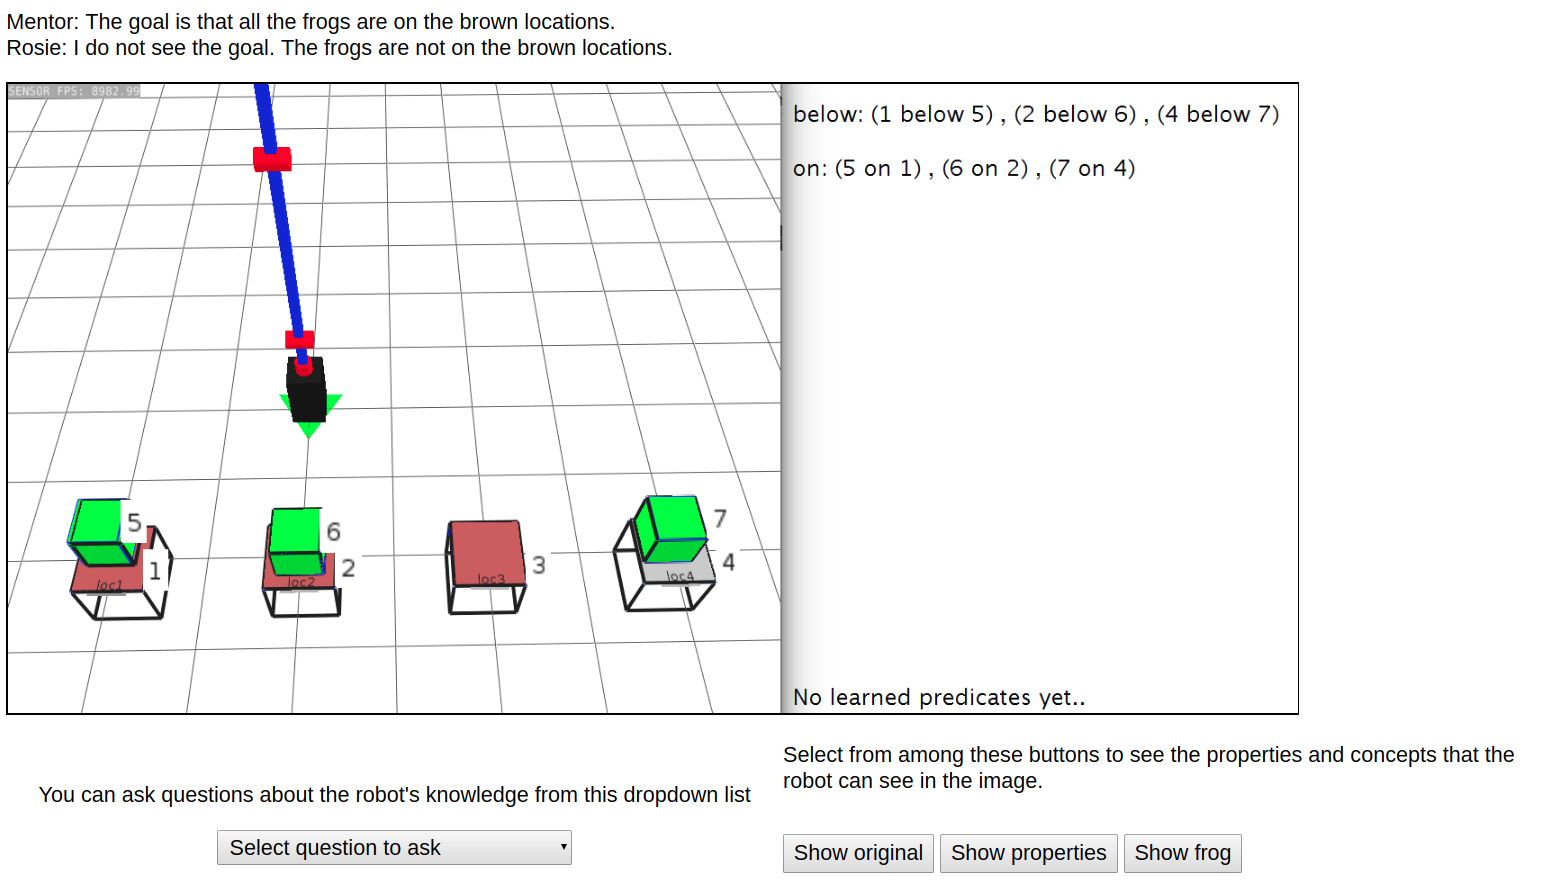
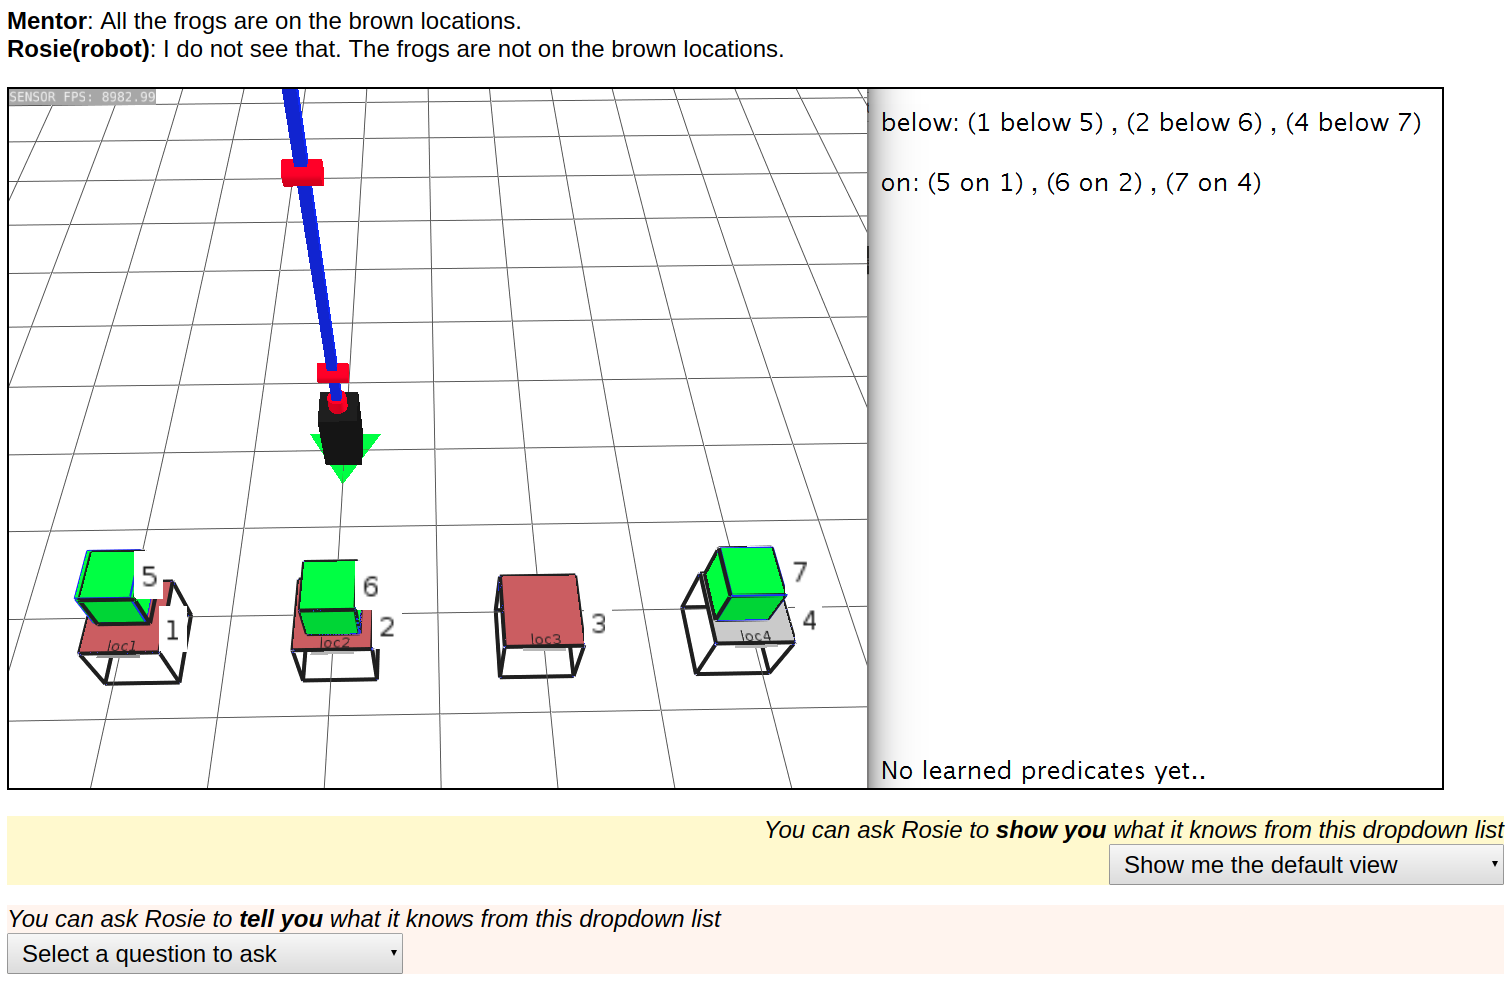
UI related changes and turned show view to dropdown list

Changed region(s): [[0.0, 0.0, 0.9947, 1.0], [0.4974, 0.9436, 0.8082, 1.0], [0.1243, 0.7001, 0.1554, 0.761]]

diff --git a/tutorial-group1.html b/tutorial-group1.html
@@ -10,41 +10,46 @@
 </head>
 <form id="mturk_form"/>
 <body onload="start()">
-        <div style="border: 3px solid green;"><p id="instruction" align="center">Welcome to the Debugging Rosie's Failure study! Press "Next" to continue.</p>
+        <div style="border: 3px solid green;"><p id="instruction" align="center">Welcome! Press "Next" to begin the tutorial.</p>
         <div align="center"><button id="next" type="button" onclick="nextt()" style=" font-size: 24px;padding: 5px 10px;">Next</button></div>
         </div>
         <div align="left"><p><span id="minutes"></span>:<span id="seconds"></span></p></div>      
         <div>
-            <p id="conv_set"><b>Mentor</b>: The goal is that all the frogs are on the brown locations. <br/> <b>Rosie</b>: I do not see the goal. The frogs are not on the brown locations.</p>
+            <p id="conv_set"><b>Mentor</b>: All the frogs are on the brown locations. <br/> <b>Rosie(robot)</b>: I do not see that. The frogs are not on the brown locations.</p>
         </div>
         <div id="example-img-set">
             <!-- Where each set represents the condition-->
             <img id="img_trial" src="new_images/tutorial_viz.png" style="border: 2px solid black">
         </div>
         <div id="all-buttons">
+                <div id="visual-area">
+                    <span><i>You can ask Rosie to <b>show you</b> what it knows from this dropdown list</i></span><br/>
+                        <select id="visual-options" onchange="change_image(this.value)">
+                                <option value="original">Show me the default view</option>
+                                <option value="properties" >Show me the object properties</option>
+                                <option value="frog">Show me which objects are frogs</option>
+                        </select>
+                       <!-- <div id="visual-buttons">
+                                <button type="button" class="btn" id="original" onclick="change_image(this.id)">Hide all</button>
+                                <button type="button" class="btn" id="properties" onclick="change_image(this.id)">Object properties</button>
+                                <button type="button" class="btn" id="frog" onclick="change_image(this.id)">Frog objects</button>
+                        </div> -->
+                </div>
             <div id="dropdown">
-                <span><i>You can ask Rosie questions about its knowledge from this dropdown list</i></span><br/>
+                <span><i>You can ask Rosie to <b>tell you</b> what it knows from this dropdown list</i></span><br/>
                 <select id="question-answer" onChange="printAnswer(this);"></select>
                 <p id="answer"></p>
-            </div>
-            <div id="visual-area">
-                <span><i>Click buttons below to ask Rosie to show what it knows</i></span>
-                    <div id="visual-buttons">
-                            <button type="button" class="btn" id="original" onclick="change_image(this.id)">Hide all</button>
-                            <button type="button" class="btn" id="properties" onclick="change_image(this.id)">Object properties</button>
-                            <button type="button" class="btn" id="frog" onclick="change_image(this.id)">Frog objects</button>
-                    </div>
             </div>
         </div>
         <div id="user-input-options">
                 <div id="user-text-input">
-                    <span align="center"><i>Why do you think Rosie cannot see the goal/failure state or do the action?</i></span><br/>
-                    <span align-"center"><small>(Feel free to specify additional questions or show mechanisms that could have helped you)</small></span><br/>
+                    <span align="center"><i>Why do you think Rosie cannot see this/ do the action?</i></span><br/>
+                    <span align-"center"><small>(Feel free to specify additional information that could have helped you)</small></span><br/>
                     <textarea rows="4" cols="50" name="reason" id="reason" on="enableAnswer()">Hint: Are all frogs on the brown location? Which one isn't? Write here.</textarea>
                 </div>
-                <button type="button" id="showOptionsBtn" onclick="readyToAnswer()" class="btn">Ready to answer</button>
+                <button type="button" id="showOptionsBtn" onclick="readyToAnswer()" class="btn">Continue</button>
                 <div id="user-input">
-                    <p>In the study, you may or may not have the question dropdown, show buttons or the display panel available to you based on the example. Select the answer</p>
+                    <p>In the study, you may or may not have the question dropdown, show dropdown or the right panel available to you based on the example. Select the answer</p>
                     <select id="user-answer">
                         <option value="1">The green blocks are on the brown locations but the robot cannot detect it.</option>
                         <option value="2">The green block 7 is not on location 3.</option>

diff --git a/tutorial-group2.html b/tutorial-group2.html
@@ -10,41 +10,46 @@
 </head>
 <form id="mturk_form"/>
 <body onload="start()">
-        <div style="border: 3px solid green;"><p id="instruction" align="center">Welcome to the Debugging Rosie's Failure study! Press "Next" to continue.</p>
+        <div style="border: 3px solid green;"><p id="instruction" align="center">Welcome! Press "Next" to begin the tutorial.</p>
         <div align="center"><button id="next" type="button" onclick="nextt()" style=" font-size: 24px;padding: 5px 10px;">Next</button></div>
         </div>
         <div align="left"><p><span id="minutes"></span>:<span id="seconds"></span></p></div>      
         <div>
-            <p id="conv_set"><b>Mentor</b>: The goal is that all the frogs are on the brown locations. <br/> <b>Rosie</b>: I do not see the goal. The frogs are not on the brown locations.</p>
+            <p id="conv_set"><b>Mentor</b>: All the frogs are on the brown locations. <br/> <b>Rosie(robot)</b>: I do not see that. The frogs are not on the brown locations.</p>
         </div>
         <div id="example-img-set">
             <!-- Where each set represents the condition-->
             <img id="img_trial" src="new_images/tutorial_viz.png" style="border: 2px solid black">
         </div>
         <div id="all-buttons">
+                <div id="visual-area">
+                    <span><i>You can ask Rosie to <b>show you</b> what it knows from this dropdown list</i></span><br/>
+                        <select id="visual-options" onchange="change_image(this.value)">
+                                <option value="original">Show me the default view</option>
+                                <option value="properties" >Show me the object properties</option>
+                                <option value="frog">Show me which objects are frogs</option>
+                        </select>
+                       <!-- <div id="visual-buttons">
+                                <button type="button" class="btn" id="original" onclick="change_image(this.id)">Hide all</button>
+                                <button type="button" class="btn" id="properties" onclick="change_image(this.id)">Object properties</button>
+                                <button type="button" class="btn" id="frog" onclick="change_image(this.id)">Frog objects</button>
+                        </div> -->
+                </div>
             <div id="dropdown">
-                <span><i>You can ask Rosie questions about its knowledge from this dropdown list</i></span><br/>
+                <span><i>You can ask Rosie to <b>tell you</b> what it knows from this dropdown list</i></span><br/>
                 <select id="question-answer" onChange="printAnswer(this);"></select>
                 <p id="answer"></p>
-            </div>
-            <div id="visual-area">
-                <span><i>Click buttons below to ask Rosie to show what it knows</i></span>
-                    <div id="visual-buttons">
-                            <button type="button" class="btn" id="original" onclick="change_image(this.id)">Hide all</button>
-                            <button type="button" class="btn" id="properties" onclick="change_image(this.id)">Object properties</button>
-                            <button type="button" class="btn" id="frog" onclick="change_image(this.id)">Frog objects</button>
-                    </div>
             </div>
         </div>
         <div id="user-input-options">
                 <div id="user-text-input">
-                    <span align="center"><i>Why do you think Rosie cannot see the goal/failure state or do the action?</i></span><br/>
-                    <span align-"center"><small>(Feel free to specify additional questions or show mechanisms that could have helped you)</small></span><br/>
+                    <span align="center"><i>Why do you think Rosie cannot see this/ do the action?</i></span><br/>
+                    <span align-"center"><small>(Feel free to specify additional information that could have helped you)</small></span><br/>
                     <textarea rows="4" cols="50" name="reason" id="reason" on="enableAnswer()">Hint: Are all frogs on the brown location? Which one isn't? Write here.</textarea>
                 </div>
-                <button type="button" id="showOptionsBtn" onclick="readyToAnswer()" class="btn">Ready to answer</button>
+                <button type="button" id="showOptionsBtn" onclick="readyToAnswer()" class="btn">Continue</button>
                 <div id="user-input">
-                    <p>In the study, you may or may not have the question dropdown, show buttons or the display panel available to you based on the example. Select the answer</p>
+                    <p>In the study, you may or may not have the question dropdown, show dropdown or the right panel available to you based on the example. Select the answer</p>
                     <select id="user-answer">
                         <option value="1">The green blocks are on the brown locations but the robot cannot detect it.</option>
                         <option value="2">The green block 7 is not on location 3.</option>

diff --git a/tutorial-group3.html b/tutorial-group3.html
@@ -10,41 +10,46 @@
 </head>
 <form id="mturk_form"/>
 <body onload="start()">
-        <div style="border: 3px solid green;"><p id="instruction" align="center">Welcome to the Debugging Rosie's Failure study! Press "Next" to continue.</p>
+        <div style="border: 3px solid green;"><p id="instruction" align="center">Welcome! Press "Next" to begin the tutorial.</p>
         <div align="center"><button id="next" type="button" onclick="nextt()" style=" font-size: 24px;padding: 5px 10px;">Next</button></div>
         </div>
         <div align="left"><p><span id="minutes"></span>:<span id="seconds"></span></p></div>      
         <div>
-            <p id="conv_set"><b>Mentor</b>: The goal is that all the frogs are on the brown locations. <br/> <b>Rosie</b>: I do not see the goal. The frogs are not on the brown locations.</p>
+            <p id="conv_set"><b>Mentor</b>: All the frogs are on the brown locations. <br/> <b>Rosie(robot)</b>: I do not see that. The frogs are not on the brown locations.</p>
         </div>
         <div id="example-img-set">
             <!-- Where each set represents the condition-->
             <img id="img_trial" src="new_images/tutorial_viz.png" style="border: 2px solid black">
         </div>
         <div id="all-buttons">
+                <div id="visual-area">
+                    <span><i>You can ask Rosie to <b>show you</b> what it knows from this dropdown list</i></span><br/>
+                        <select id="visual-options" onchange="change_image(this.value)">
+                                <option value="original">Show me the default view</option>
+                                <option value="properties" >Show me the object properties</option>
+                                <option value="frog">Show me which objects are frogs</option>
+                        </select>
+                       <!-- <div id="visual-buttons">
+                                <button type="button" class="btn" id="original" onclick="change_image(this.id)">Hide all</button>
+                                <button type="button" class="btn" id="properties" onclick="change_image(this.id)">Object properties</button>
+                                <button type="button" class="btn" id="frog" onclick="change_image(this.id)">Frog objects</button>
+                        </div> -->
+                </div>
             <div id="dropdown">
-                <span><i>You can ask Rosie questions about its knowledge from this dropdown list</i></span><br/>
+                <span><i>You can ask Rosie to <b>tell you</b> what it knows from this dropdown list</i></span><br/>
                 <select id="question-answer" onChange="printAnswer(this);"></select>
                 <p id="answer"></p>
-            </div>
-            <div id="visual-area">
-                <span><i>Click buttons below to ask Rosie to show what it knows</i></span>
-                    <div id="visual-buttons">
-                            <button type="button" class="btn" id="original" onclick="change_image(this.id)">Hide all</button>
-                            <button type="button" class="btn" id="properties" onclick="change_image(this.id)">Object properties</button>
-                            <button type="button" class="btn" id="frog" onclick="change_image(this.id)">Frog objects</button>
-                    </div>
             </div>
         </div>
         <div id="user-input-options">
                 <div id="user-text-input">
-                    <span align="center"><i>Why do you think Rosie cannot see the goal/failure state or do the action?</i></span><br/>
-                    <span align-"center"><small>(Feel free to specify additional questions or show mechanisms that could have helped you)</small></span><br/>
+                    <span align="center"><i>Why do you think Rosie cannot see this/ do the action?</i></span><br/>
+                    <span align-"center"><small>(Feel free to specify additional information that could have helped you)</small></span><br/>
                     <textarea rows="4" cols="50" name="reason" id="reason" on="enableAnswer()">Hint: Are all frogs on the brown location? Which one isn't? Write here.</textarea>
                 </div>
-                <button type="button" id="showOptionsBtn" onclick="readyToAnswer()" class="btn">Ready to answer</button>
+                <button type="button" id="showOptionsBtn" onclick="readyToAnswer()" class="btn">Continue</button>
                 <div id="user-input">
-                    <p>In the study, you may or may not have the question dropdown, show buttons or the display panel available to you based on the example. Select the answer</p>
+                    <p>In the study, you may or may not have the question dropdown, show dropdown or the right panel available to you based on the example. Select the answer</p>
                     <select id="user-answer">
                         <option value="1">The green blocks are on the brown locations but the robot cannot detect it.</option>
                         <option value="2">The green block 7 is not on location 3.</option>

diff --git a/tutorial-group4.html b/tutorial-group4.html
@@ -10,41 +10,46 @@
 </head>
 <form id="mturk_form"/>
 <body onload="start()">
-        <div style="border: 3px solid green;"><p id="instruction" align="center">Welcome to the Debugging Rosie's Failure study! Press "Next" to continue.</p>
+        <div style="border: 3px solid green;"><p id="instruction" align="center">Welcome! Press "Next" to begin the tutorial.</p>
         <div align="center"><button id="next" type="button" onclick="nextt()" style=" font-size: 24px;padding: 5px 10px;">Next</button></div>
         </div>
         <div align="left"><p><span id="minutes"></span>:<span id="seconds"></span></p></div>      
         <div>
-            <p id="conv_set"><b>Mentor</b>: The goal is that all the frogs are on the brown locations. <br/> <b>Rosie</b>: I do not see the goal. The frogs are not on the brown locations.</p>
+            <p id="conv_set"><b>Mentor</b>: All the frogs are on the brown locations. <br/> <b>Rosie(robot)</b>: I do not see that. The frogs are not on the brown locations.</p>
         </div>
         <div id="example-img-set">
             <!-- Where each set represents the condition-->
             <img id="img_trial" src="new_images/tutorial_viz.png" style="border: 2px solid black">
         </div>
         <div id="all-buttons">
+                <div id="visual-area">
+                    <span><i>You can ask Rosie to <b>show you</b> what it knows from this dropdown list</i></span><br/>
+                        <select id="visual-options" onchange="change_image(this.value)">
+                                <option value="original">Show me the default view</option>
+                                <option value="properties" >Show me the object properties</option>
+                                <option value="frog">Show me which objects are frogs</option>
+                        </select>
+                       <!-- <div id="visual-buttons">
+                                <button type="button" class="btn" id="original" onclick="change_image(this.id)">Hide all</button>
+                                <button type="button" class="btn" id="properties" onclick="change_image(this.id)">Object properties</button>
+                                <button type="button" class="btn" id="frog" onclick="change_image(this.id)">Frog objects</button>
+                        </div> -->
+                </div>
             <div id="dropdown">
-                <span><i>You can ask Rosie questions about its knowledge from this dropdown list</i></span><br/>
+                <span><i>You can ask Rosie to <b>tell you</b> what it knows from this dropdown list</i></span><br/>
                 <select id="question-answer" onChange="printAnswer(this);"></select>
                 <p id="answer"></p>
-            </div>
-            <div id="visual-area">
-                <span><i>Click buttons below to ask Rosie to show what it knows</i></span>
-                    <div id="visual-buttons">
-                            <button type="button" class="btn" id="original" onclick="change_image(this.id)">Hide all</button>
-                            <button type="button" class="btn" id="properties" onclick="change_image(this.id)">Object properties</button>
-                            <button type="button" class="btn" id="frog" onclick="change_image(this.id)">Frog objects</button>
-                    </div>
             </div>
         </div>
         <div id="user-input-options">
                 <div id="user-text-input">
-                    <span align="center"><i>Why do you think Rosie cannot see the goal/failure state or do the action?</i></span><br/>
-                    <span align-"center"><small>(Feel free to specify additional questions or show mechanisms that could have helped you)</small></span><br/>
+                    <span align="center"><i>Why do you think Rosie cannot see this/ do the action?</i></span><br/>
+                    <span align-"center"><small>(Feel free to specify additional information that could have helped you)</small></span><br/>
                     <textarea rows="4" cols="50" name="reason" id="reason" on="enableAnswer()">Hint: Are all frogs on the brown location? Which one isn't? Write here.</textarea>
                 </div>
-                <button type="button" id="showOptionsBtn" onclick="readyToAnswer()" class="btn">Ready to answer</button>
+                <button type="button" id="showOptionsBtn" onclick="readyToAnswer()" class="btn">Continue</button>
                 <div id="user-input">
-                    <p>In the study, you may or may not have the question dropdown, show buttons or the display panel available to you based on the example. Select the answer</p>
+                    <p>In the study, you may or may not have the question dropdown, show dropdown or the right panel available to you based on the example. Select the answer</p>
                     <select id="user-answer">
                         <option value="1">The green blocks are on the brown locations but the robot cannot detect it.</option>
                         <option value="2">The green block 7 is not on location 3.</option>

diff --git a/tutorial-group1.js b/tutorial-group1.js
@@ -177,7 +177,7 @@ function change_image(clicked_id)
 }
 
 function printAnswer(option) {
-    document.getElementById("answer").innerHTML = item_answers[document.getElementById("question-answer").value];
+    document.getElementById("answer").innerHTML = "Answer: " + item_answers[document.getElementById("question-answer").value];
     if(i === 4 && $("#question-answer option:selected").text() === "What is frog?")
     {
         document.getElementById("question-answer").style.border = "";

diff --git a/tutorial-group2.js b/tutorial-group2.js
@@ -177,7 +177,7 @@ function change_image(clicked_id)
 }
 
 function printAnswer(option) {
-    document.getElementById("answer").innerHTML = item_answers[document.getElementById("question-answer").value];
+    document.getElementById("answer").innerHTML = "Answer: " + item_answers[document.getElementById("question-answer").value];
     if(i === 4 && $("#question-answer option:selected").text() === "What is frog?")
     {
         document.getElementById("question-answer").style.border = "";

diff --git a/tutorial-group3.js b/tutorial-group3.js
@@ -177,7 +177,7 @@ function change_image(clicked_id)
 }
 
 function printAnswer(option) {
-    document.getElementById("answer").innerHTML = item_answers[document.getElementById("question-answer").value];
+    document.getElementById("answer").innerHTML = "Answer: " + item_answers[document.getElementById("question-answer").value];
     if(i === 4 && $("#question-answer option:selected").text() === "What is frog?")
     {
         document.getElementById("question-answer").style.border = "";

diff --git a/tutorial-group4.js b/tutorial-group4.js
@@ -177,7 +177,7 @@ function change_image(clicked_id)
 }
 
 function printAnswer(option) {
-    document.getElementById("answer").innerHTML = item_answers[document.getElementById("question-answer").value];
+    document.getElementById("answer").innerHTML = "Answer: " + item_answers[document.getElementById("question-answer").value];
     if(i === 4 && $("#question-answer option:selected").text() === "What is frog?")
     {
         document.getElementById("question-answer").style.border = "";

diff --git a/main.css b/main.css
@@ -25,14 +25,21 @@ body {
 }
 
 #dropdown {
+    background-color: seashell;
     display: none;
    /* width: 50%;
      float: left;*/
     margin-top: 20px;
     margin-bottom: 20px;
-    text-align: center;
+    text-align: left;
 }
 
+#visual-area {
+    background-color: lemonchiffon;
+    margin-top: 20px;
+    margin-bottom: 20px;
+    text-align: right;
+}
 
 #visual-buttons {
     /*float: left;
